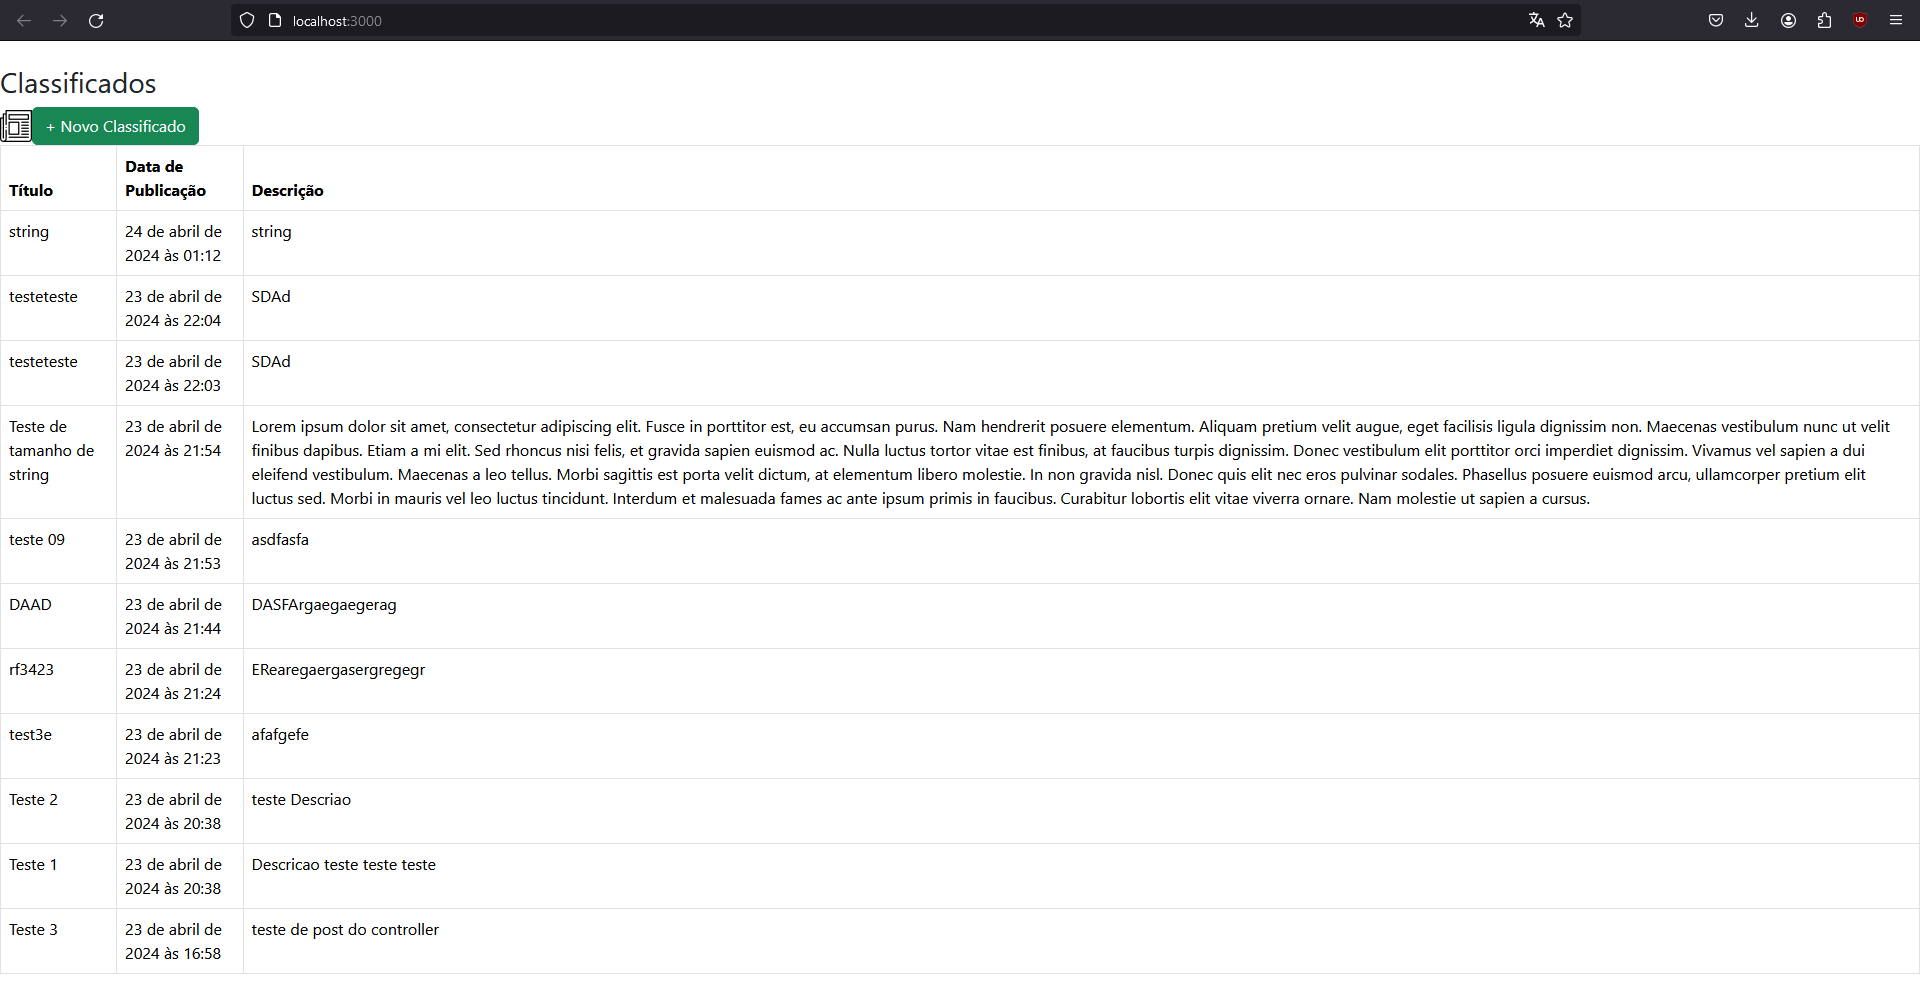
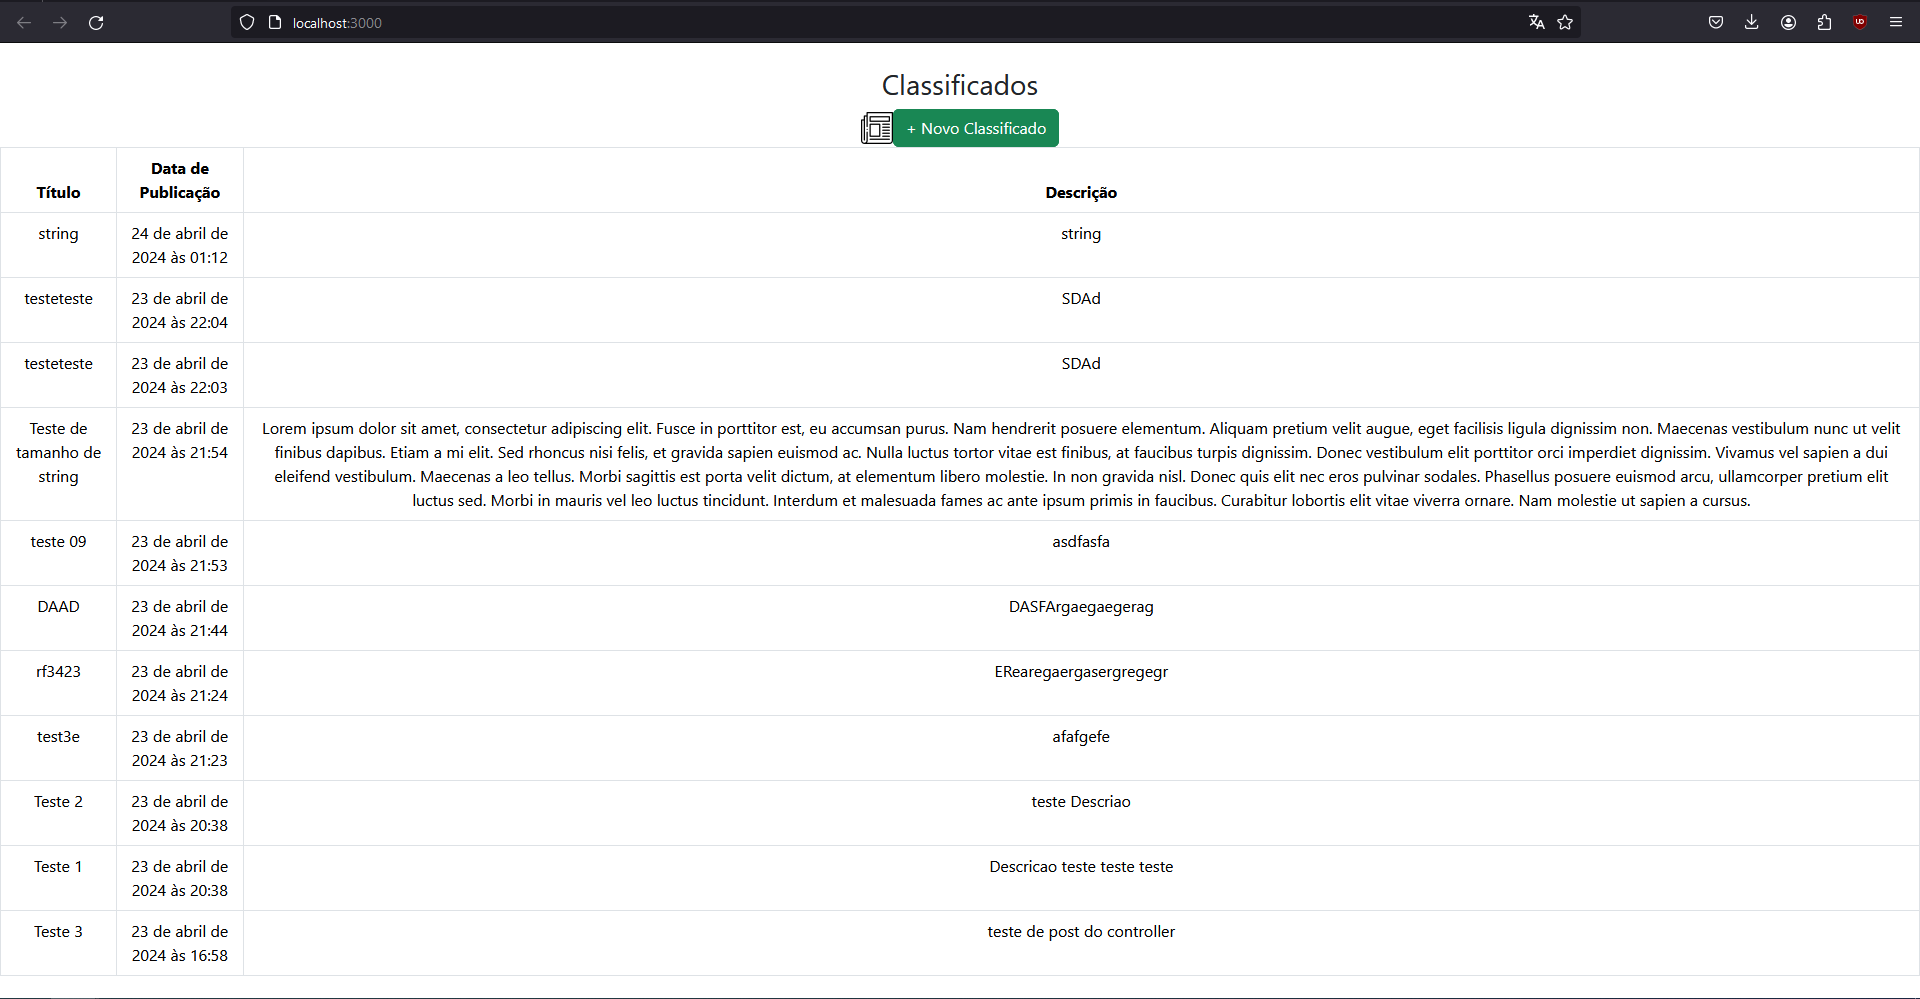
Centralizar

diff --git a/classificados-react/src/App.css b/classificados-react/src/App.css
@@ -1,5 +1,5 @@
 .App {
-  text-align: left;
+  text-align: center;
 }
 
 .App-header {
@@ -12,7 +12,7 @@
   font-size: calc(10px + 2vmin);
   color: white;
 }
-A
+
 .App-link {
   color: #61dafb;
 }
